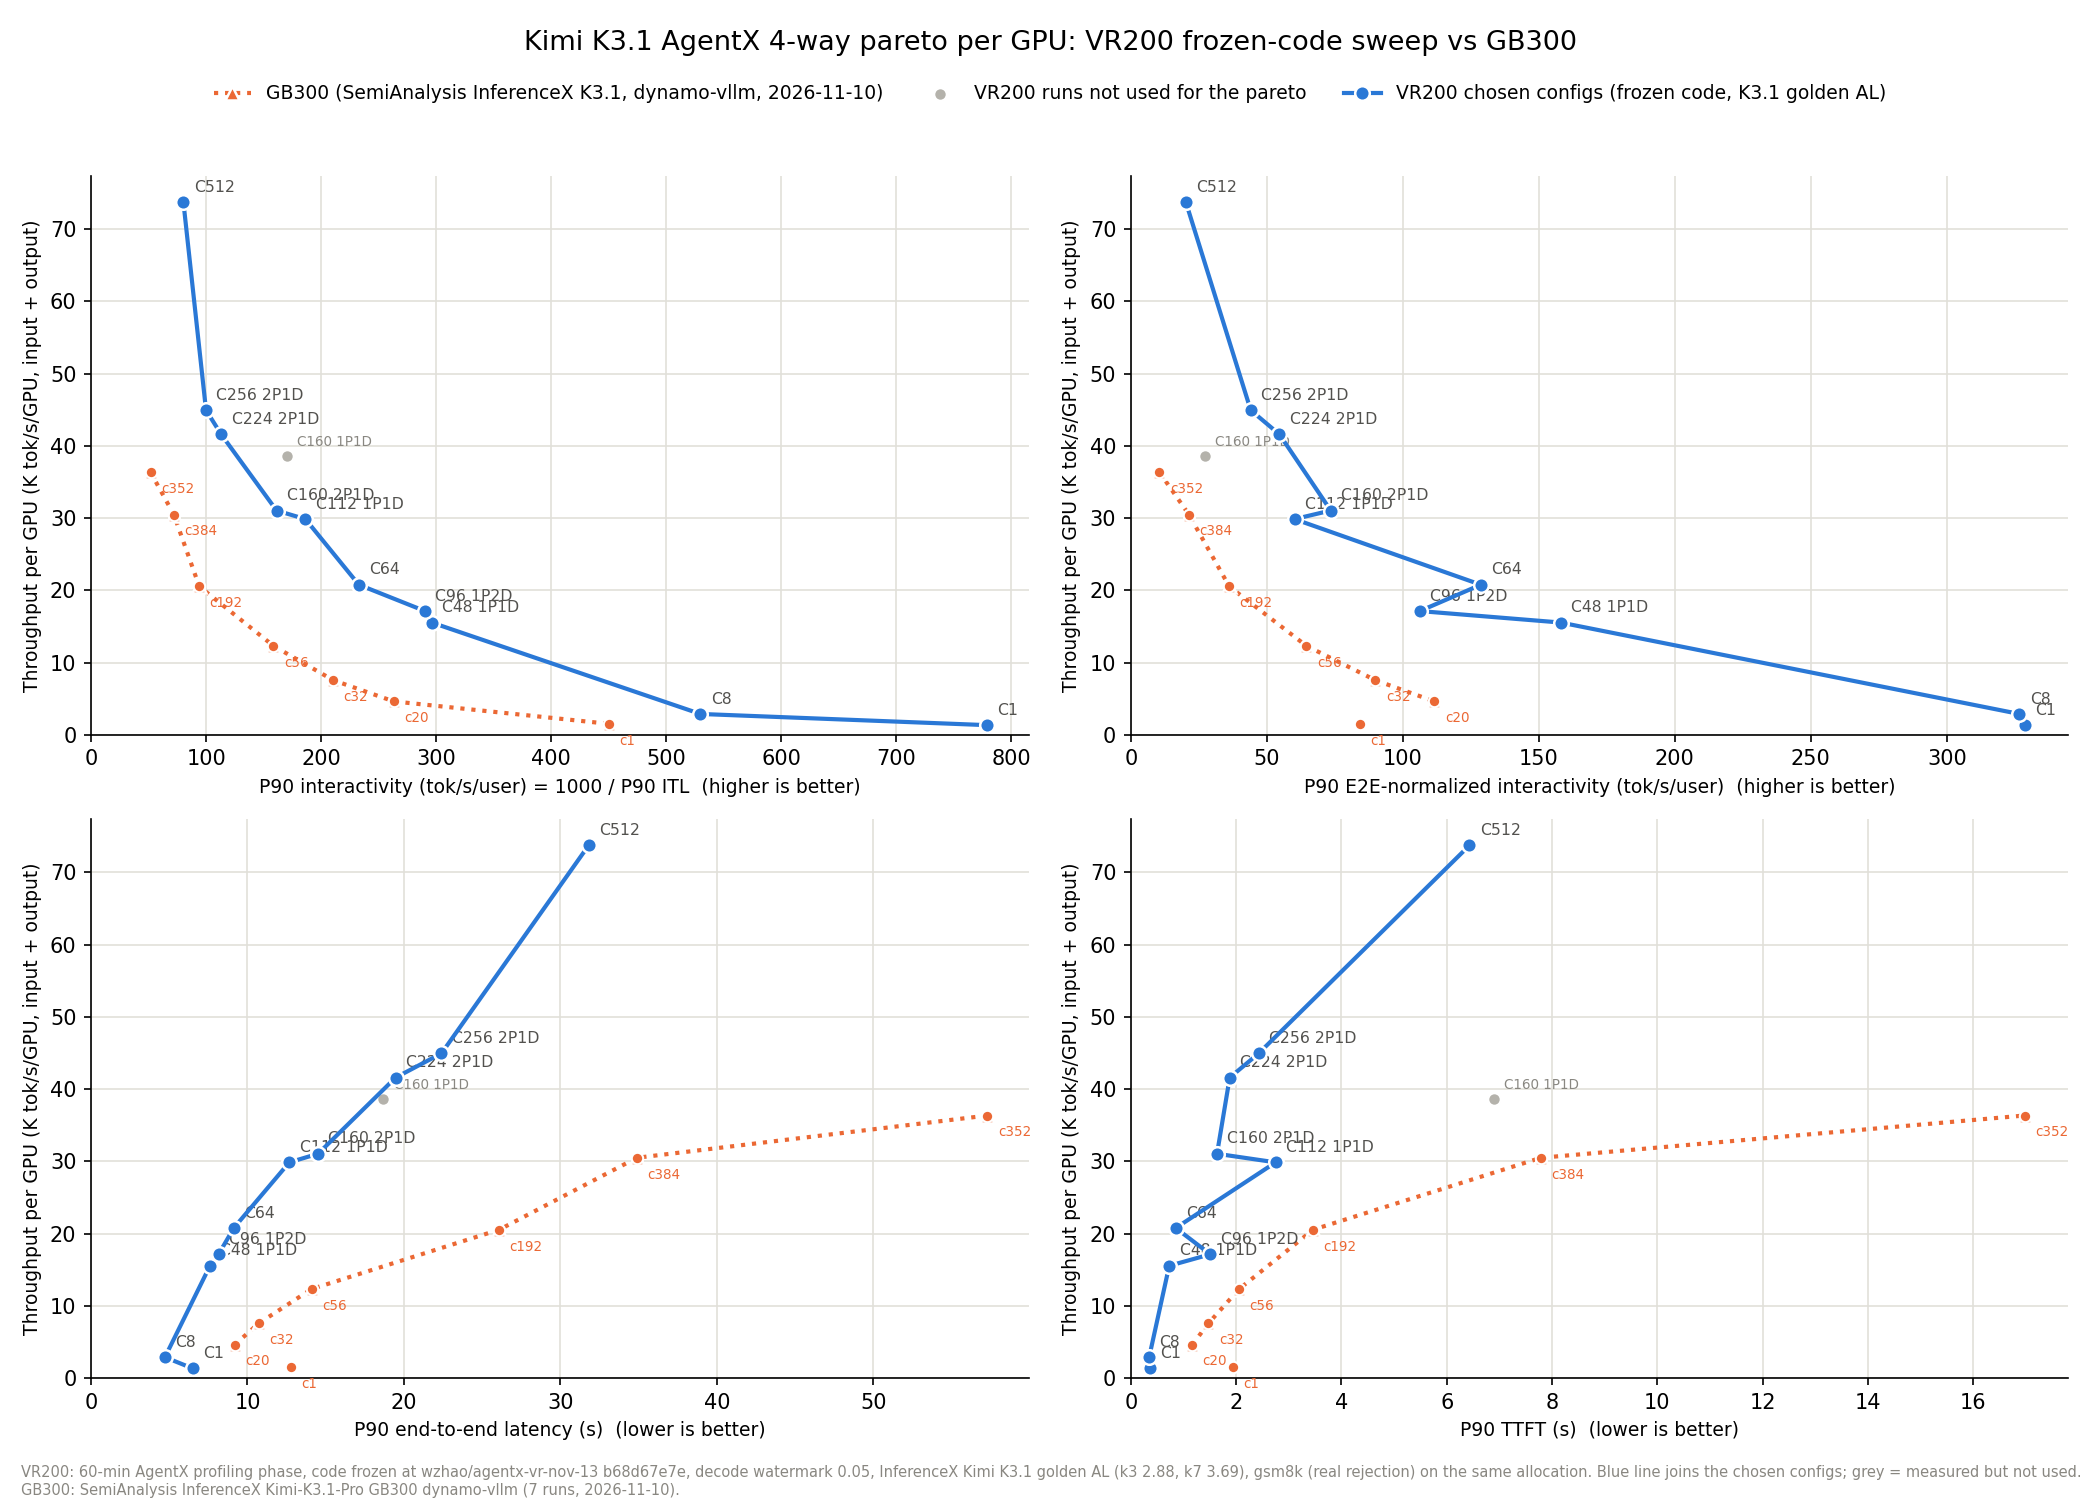
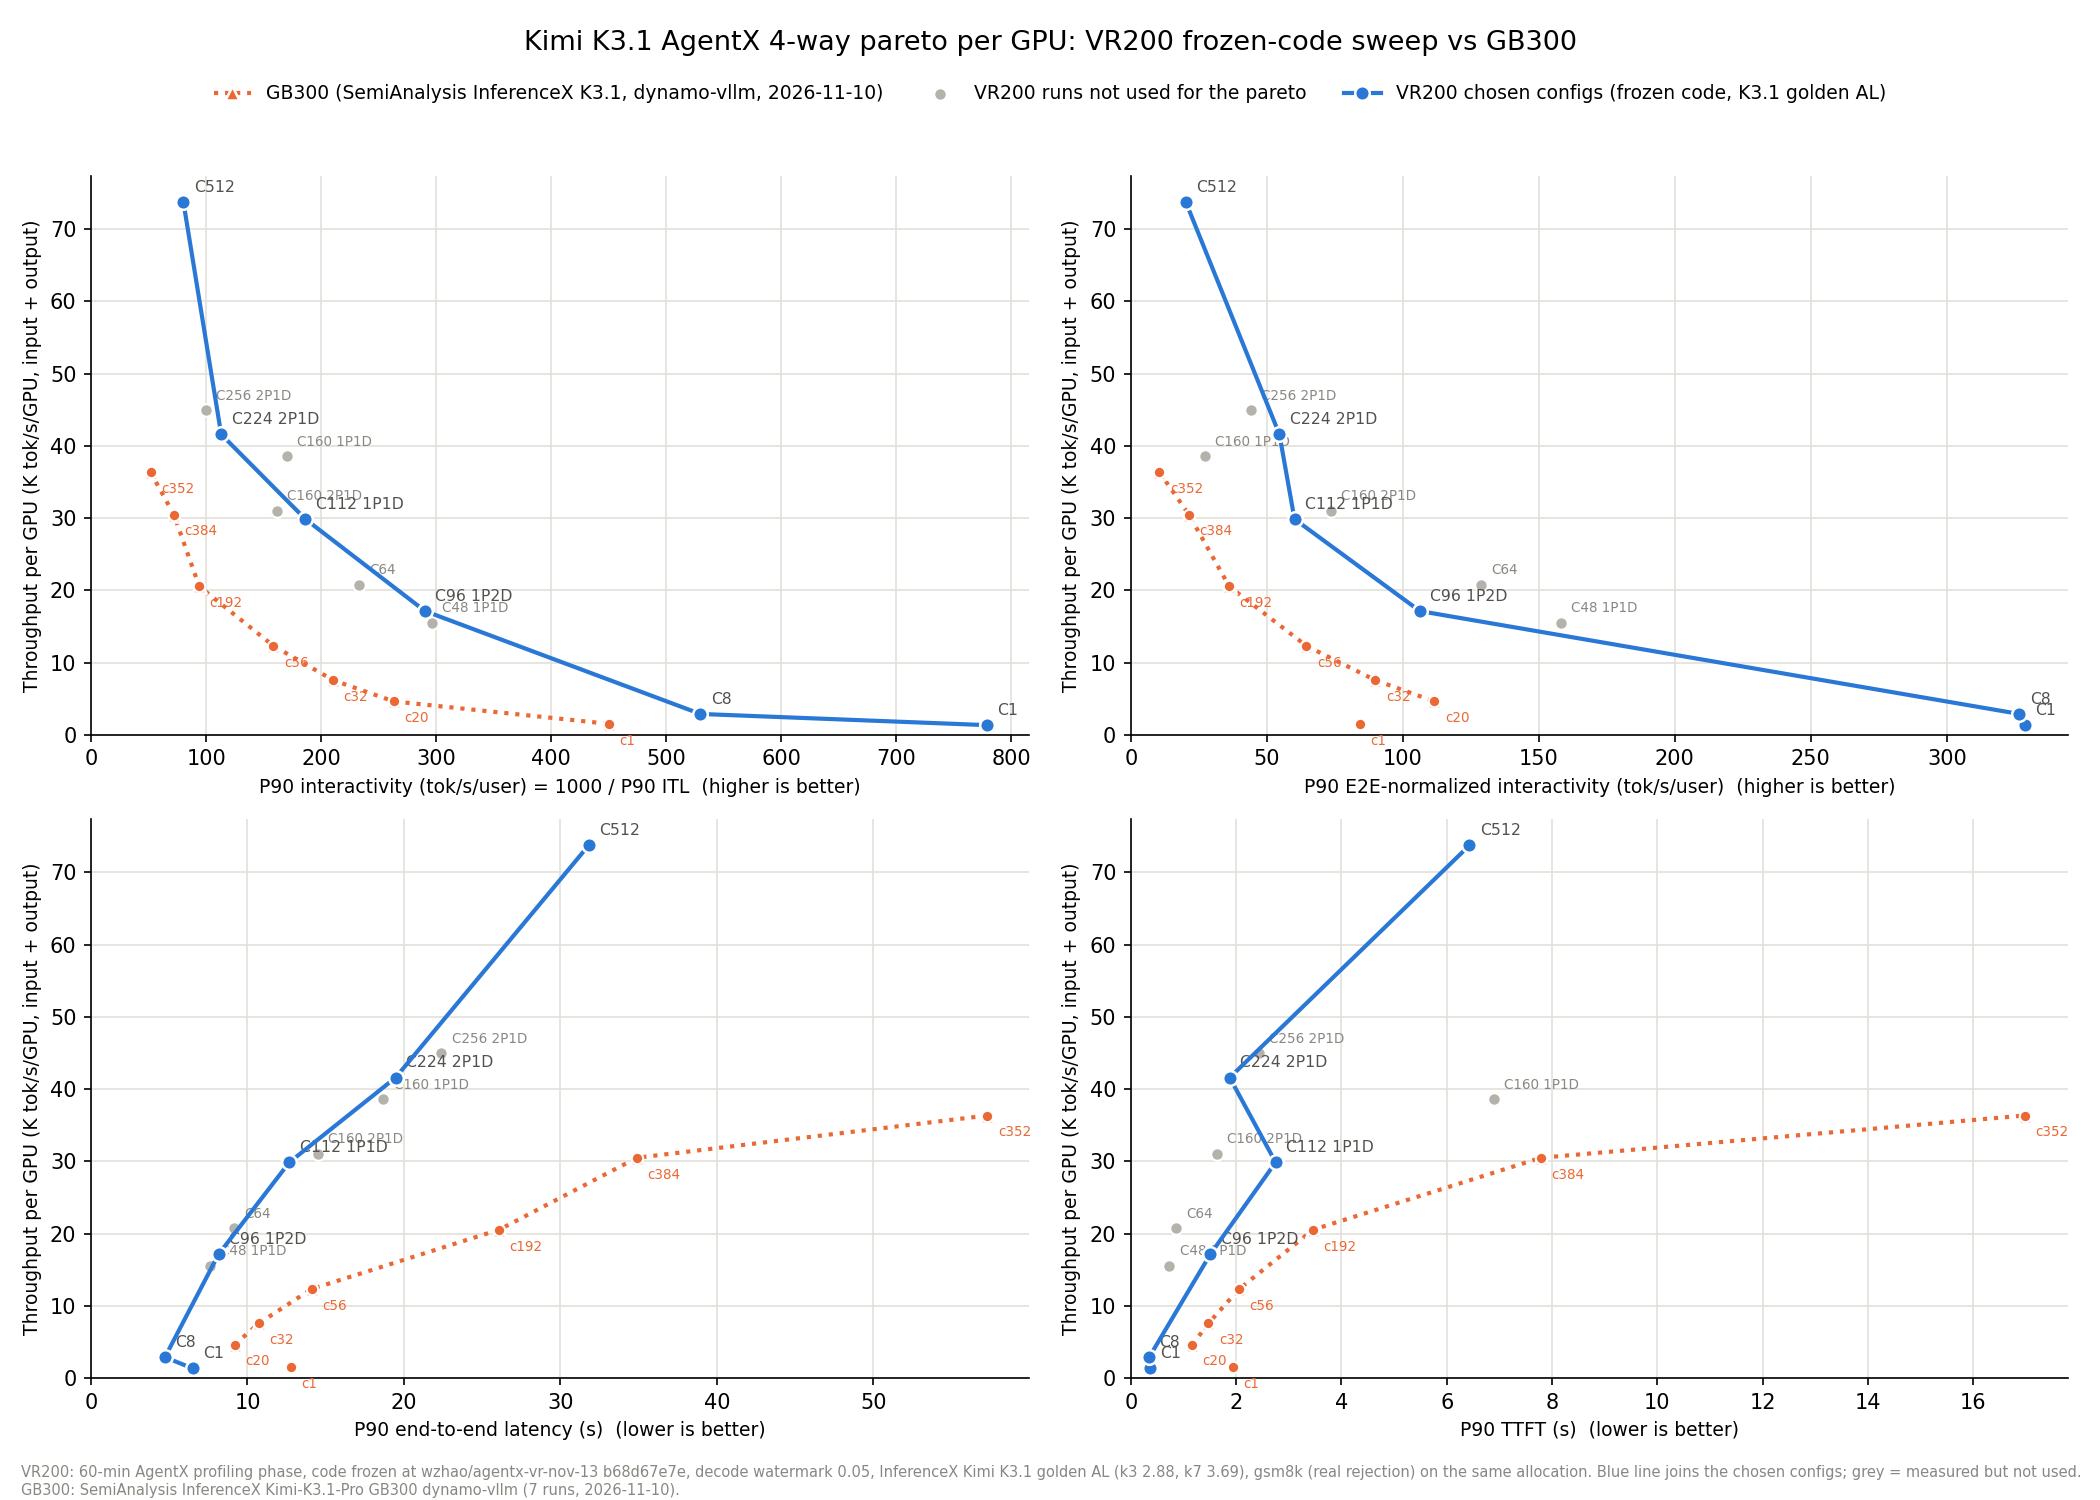
K3.1 VR frozen sweep: final chosen set C1, C8, C96, C112, C224, C512
User selection 2026-11-15. C48 1P1D, C64, C160 2P1D and C256 2P1D stay
as measured, valid, unselected (grey) points. Plots, points.json, README
table and the VR200 vs GB300 comparison regenerated for the final set.

diff --git a/results/k31vr-frozen-sweep-20261114/README.md b/results/k31vr-frozen-sweep-20261114/README.md
@@ -7,7 +7,7 @@ Goal: the best 4-way pareto curve for VR200, picked by config only.
 
 <!-- SUMMARY -->
 ## Summary (2026-11-14, all runs landed; gsm8k for C256 pending at time of writing)
-- **Chosen curve (10 points, frozen code b68d67e7e, K3.1 golden AL, watermark 0.05):** C1, C8, C48 1P1D, C96 1P2D, C64, C112 1P1D, C160 2P1D, C224 2P1D, C256 2P1D, C512 hybrid. Every chosen point passed gsm8k (strict 0.9659-0.9712, real rejection, same allocation).
+- **Final chosen set (user, 2026-11-15; 6 points, frozen code b68d67e7e, K3.1 golden AL, watermark 0.05):** C1, C8, C96 1P2D, C112 1P1D, C224 2P1D, C512 hybrid. C48 1P1D, C64, C160 2P1D and C256 2P1D are measured and valid but unselected (grey). Every chosen point passed gsm8k (strict 0.9659-0.9712, real rejection, same allocation).
 - **Reproductions:** every previously chosen config reproduced within its pre-registered lines. x is 2-5% below the old runs, which is the expected effect of moving from the Kimi K3 AL (3.84 / 3.0) to the InferenceX Kimi K3.1 golden AL (3.69 / 2.88). y is within 0-4%.
 - **New points:**
   - **C96 1P2D:** one prefill shared by two C48-shape decodes. It gives +10% y over C48 at -2% x. Its TTFT p90 is 1.5 s vs 0.73 s.
@@ -19,18 +19,14 @@ Goal: the best 4-way pareto curve for VR200, picked by config only.
   - **About 15 other configs:** rejected in planning (`PHASE2_PLAN.md` on Hecate) because they were within drift or saturated the prefill.
 - **VR200 vs the GB300 front at the same P90 interactivity** (GB300 = SemiAnalysis InferenceX Kimi-K3.1-Pro dynamo-vllm, 2026-11-10; linear interpolation along the GB300 front):
 
-| point | TPS/GPU | P90 intvty | GB300 front at same intvty | VR200 / GB300 per GPU | per MW (x 2.12/3.3) |
-|---|---|---|---|---|---|
-| C1 | 1,342 | 779 | outside GB300 range (GB300 x 52-450) | - | - |
-| C8 | 2,890 | 530 | outside GB300 range (GB300 x 52-450) | - | - |
-| C48 1P1D | 15,544 | 296 | 4,080 | 3.81x | 2.45x |
-| C96 1P2D | 17,132 | 290 | 4,176 | 4.10x | 2.64x |
-| C64 | 20,778 | 233 | 6,322 | 3.29x | 2.11x |
-| C112 1P1D | 29,863 | 186 | 9,775 | 3.05x | 1.96x |
-| C160 2P1D | 31,049 | 161 | 12,067 | 2.57x | 1.65x |
-| C224 2P1D | 41,591 | 113 | 18,112 | 2.30x | 1.48x |
-| C256 2P1D | 44,940 | 100 | 19,795 | 2.27x | 1.46x |
-| C512 | 73,736 | 80 | 26,741 | 2.76x | 1.77x |
+| point | TPS/GPU | P90 intvty | TTFT p90 (s) | GB300 front at same intvty | VR200 / GB300 per GPU | per MW (x 2.12/3.3) |
+|---|---|---|---|---|---|---|
+| C1 | 1,342 | 779 | 0.36 | beyond GB300 range (max x 450) | - | - |
+| C8 | 2,890 | 530 | 0.35 | beyond GB300 range (max x 450) | - | - |
+| C96 1P2D | 17,132 | 290 | 1.51 | 4,176 | 4.10x | 2.64x |
+| C112 1P1D | 29,863 | 186 | 2.75 | 9,775 | 3.05x | 1.96x |
+| C224 2P1D | 41,591 | 113 | 1.88 | 18,112 | 2.30x | 1.48x |
+| C512 | 73,736 | 80 | 6.43 | 26,741 | 2.76x | 1.77x |
 
 VR200 also covers x 450-780 (C8, C1), which the GB300 series does not reach.
 <!-- /SUMMARY -->
@@ -75,14 +71,14 @@ Still queued or running: see the sweep status below the table.
 |---|---|---|---|---|---|---|---|---|---|---|
 | C1 | 1P1D: P TP8+DCP8, D TP16+DCP16 (24) | C1-a1093683 | 1,342 | 778.6 | 328.8 | 6.5 | 0.36 | 0.9659 | **yes** | accept: old K3-AL run 1,347 @ 805 -> -0.4% y, -3.2% x (AL correction); gsm8k on the same hold |
 | C8 | 1P1D: P TP8+DCP8, D TP16+DCP16 (24) | C8-a1093682 | 2,890 | 529.7 | 326.7 | 4.7 | 0.35 | 0.9659 | **yes** | accept: old K3-AL run 2,960 @ 553 -> -2.3% y, -4.2% x (= AL 3.84 -> 3.69); gsm8k on the same hold |
-| C48 1P1D | 1P1D: P TP8+DCP8, D TP16+DCP16 (24) | C48-1P1D-a1093681 | 15,544 | 296.1 | 158.1 | 7.6 | 0.73 | 0.9674 | **yes** | accept (proj ~293 @ 15.0-15.4K; old K3-AL 15,593 @ 305 -> -0.3% y, -3% x); gsm8k on the same hold |
+| C48 1P1D | 1P1D: P TP8+DCP8, D TP16+DCP16 (24) | C48-1P1D-a1093681 | 15,544 | 296.1 | 158.1 | 7.6 | 0.73 | 0.9674 | no | accept (proj ~293 @ 15.0-15.4K; old K3-AL 15,593 @ 305 -> -0.3% y, -3% x); gsm8k on the same hold; unselected by user 2026-11-15 (final set: C1, C8, C96 1P2D, C112 1P1D, C224 2P1D, C512) |
 | C96 1P2D | 1P2D: P TP8+DCP8, 2 x D TP16+DCP16 (40) | C96-1P2D-a1093473 | 17,132 | 290.3 | 106.3 | 8.2 | 1.51 | 0.9697 | **yes** | new config (shared prefill): +10% y vs frozen C48 1P1D at -2% x; trade-off TTFT p90 1.5 s vs 0.73 s (shared P), E2E-norm 106; meets pre-registered accept; gsm8k 0.9697 |
-| C64 | 1P1D: P TP8+DCP8, D TP16+DCP16 (24) | C64-a1093680 | 20,778 | 232.8 | 128.7 | 9.1 | 0.85 | 0.9689 | **yes** | borderline vs pre-registered (x 232.8 between fail 230 and accept 235; y at top of 20.2-20.8K); ~-3% x vs expectation while C48 is ~+3% on the same code -> run-to-run drift; chosen (only point at this x); gsm8k on the same hold |
+| C64 | 1P1D: P TP8+DCP8, D TP16+DCP16 (24) | C64-a1093680 | 20,778 | 232.8 | 128.7 | 9.1 | 0.85 | 0.9689 | no | borderline vs pre-registered (x 232.8 between fail 230 and accept 235; y at top of 20.2-20.8K); ~-3% x vs expectation while C48 is ~+3% on the same code -> run-to-run drift; chosen (only point at this x); gsm8k on the same hold; unselected by user 2026-11-15 (final set: C1, C8, C96 1P2D, C112 1P1D, C224 2P1D, C512) |
 | C112 1P1D | 1P1D: P TP8+DCP8, D TP16+DCP16 (k3) (24) | C112-1P1D-a1094730 | 29,863 | 186.3 | 60.2 | 12.7 | 2.75 | 0.9682 | **yes** | phase-2 new config: +~6% y vs the C64-C224 chord at x 186 (proj +10%); TTFT p90 between accept 2.5 s and fail 3.0 s (single-P queue, Waiting mean ~4.5); kept per README rule (no chosen point within 10% x dominates it on the secondary panels); gsm8k on the same hold |
 | C160 1P1D | 1P1D: P TP8+DCP8, D TP16+DCP16 (24) | C160-1P1D-a1093679 | 38,569 | 170.4 | 27.2 | 18.7 | 6.89 | 0.9689 | no | not used: TTFT p90 6.9 s (4x 2P1D) from prefill queueing on one P; replaced by C160 2P1D (phase 2) |
-| C160 2P1D | 2P1D: 2 x P TP8+DCP8, D TP16+DCP16 (32) | C160-2P1D-a1094590 | 31,049 | 161.3 | 73.5 | 14.5 | 1.64 | 0.9712 | **yes** | phase-2 replacement for greyed C160 1P1D; on projection (~158 @ 30-31K, TTFT <= 2 s); old K3-AL run 31.2K @ 164; gsm8k on the same hold |
+| C160 2P1D | 2P1D: 2 x P TP8+DCP8, D TP16+DCP16 (32) | C160-2P1D-a1094590 | 31,049 | 161.3 | 73.5 | 14.5 | 1.64 | 0.9712 | no | phase-2 replacement for greyed C160 1P1D; on projection (~158 @ 30-31K, TTFT <= 2 s); old K3-AL run 31.2K @ 164; gsm8k on the same hold; unselected by user 2026-11-15 (final set: C1, C8, C96 1P2D, C112 1P1D, C224 2P1D, C512) |
 | C224 2P1D | 2P1D: 2 x P TP8+DCP8, D TP16+DCP16 (32) | C224-2P1D-a1093685 | 41,591 | 113.1 | 54.6 | 19.5 | 1.88 | 0.9697 | **yes** | accept: old K3-AL run 42.9K @ 119 -> AL-adjusted ~114; gsm8k on the same hold |
-| C256 2P1D | 2P1D: 2 x P TP8+DCP8, D TP16+DCP16 (32) | C256-2P1D-a1095076 | 44,940 | 99.9 | 44.1 | 22.4 | 2.43 | pending | **yes** | phase-2 gap filler: only TTFT-reasonable point between x 80 (C512, TTFT 6.4 s) and 113; below the C224-C512 chord on y, non-dominated; gsm8k on the same hold |
+| C256 2P1D | 2P1D: 2 x P TP8+DCP8, D TP16+DCP16 (32) | C256-2P1D-a1095076 | 44,940 | 99.9 | 44.1 | 22.4 | 2.43 | pending | no | phase-2 gap filler: only TTFT-reasonable point between x 80 (C512, TTFT 6.4 s) and 113; below the C224-C512 chord on y, non-dominated; gsm8k on the same hold; unselected by user 2026-11-15 (final set: C1, C8, C96 1P2D, C112 1P1D, C224 2P1D, C512) |
 | C512 | 1P1D hybrid: P and D each DP4 x (TP4+DCP4), EP16 (32) | C512-a1093684 | 73,736 | 80.3 | 20.2 | 31.8 | 6.43 | 0.9659 | **yes** | accept vs pre-registered >=80 @ >=71K (old K3-AL run 76.5K @ 86); gsm8k running on the same hold |
 <!-- /POINTS -->
 
